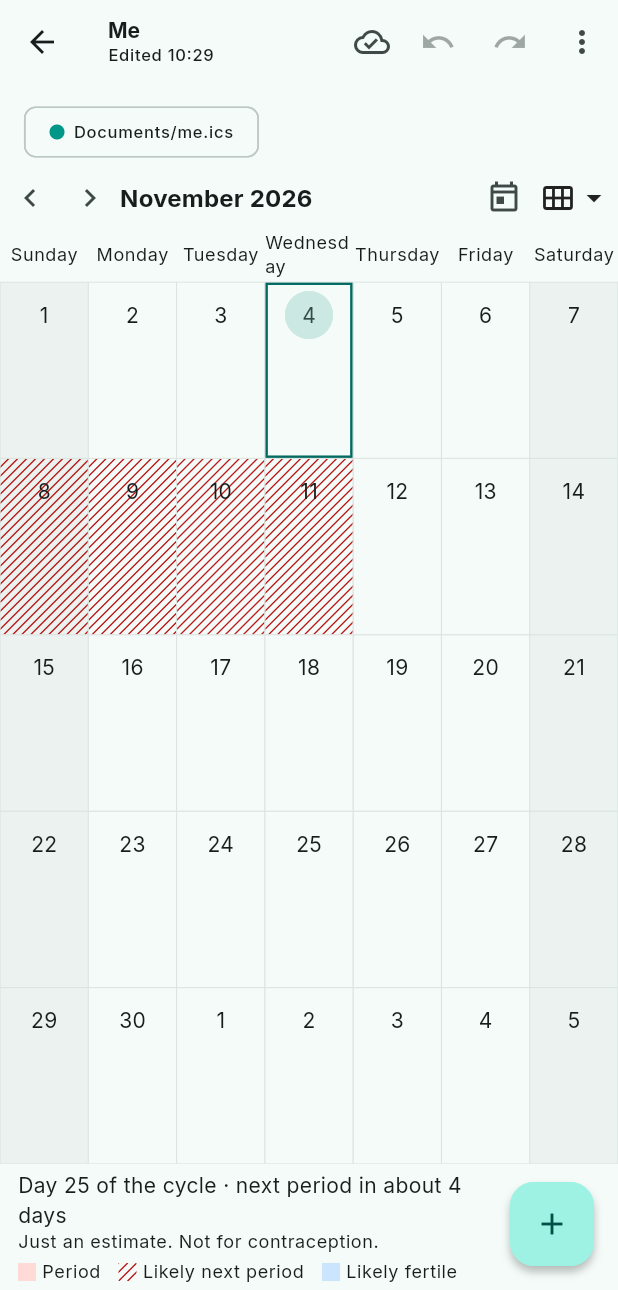
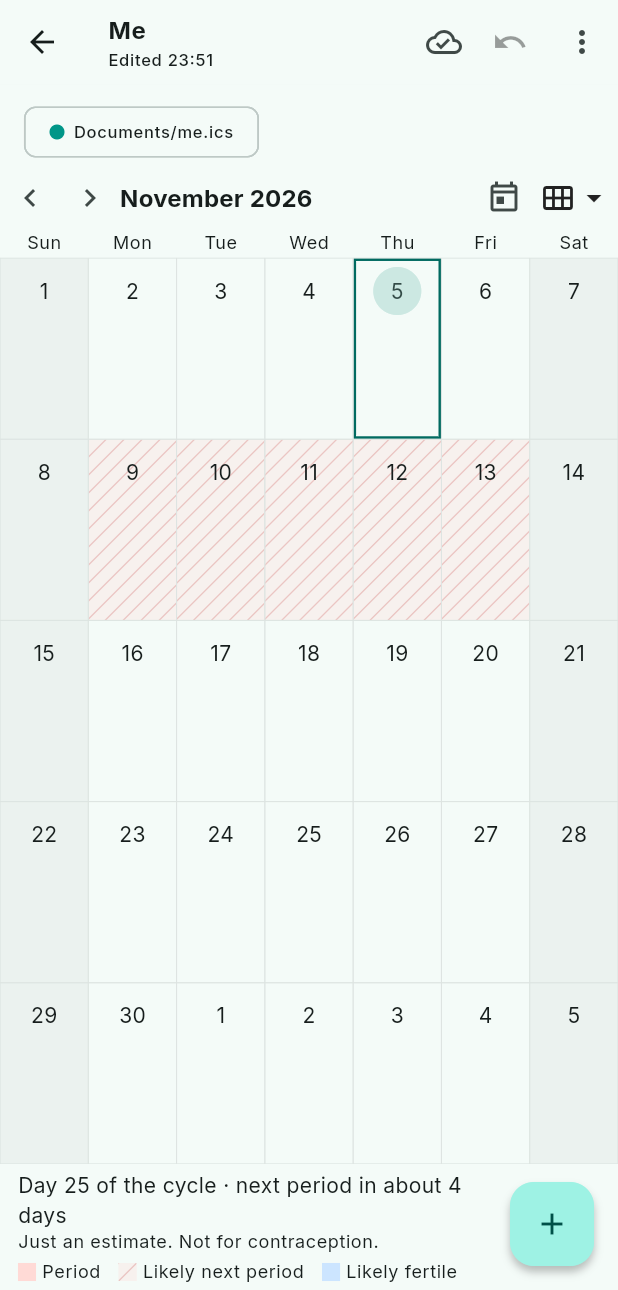
Release notes and version 0.14.0; features page and known limits for new calendars

diff --git a/types/calendar/calendar/lib/src/merge/calendar_merge.dart b/types/calendar/calendar/lib/src/merge/calendar_merge.dart
@@ -41,7 +41,7 @@ final class CalendarMerge implements TextMerge {
           .named(name)
           .text,
       lost: [
-        if (renamed && name != others.name) 'The calendar name',
+        if (renamed && name != others.name) 'Calendar name',
         for (final unit in others.units)
           if (winners[unit.key] case final winner? when unit.key is! ZoneKey)
             for (final side in [mains.unitOf(unit.key)!, unit])

diff --git a/types/calendar/calendar/test/merge_test.dart b/types/calendar/calendar/test/merge_test.dart
@@ -243,7 +243,7 @@ void main() {
     final theirs = Calendar.read(birthday)!.named('Theirs').text;
     final merged = _merge.merge(ours, theirs, base: birthday) as MergedText;
     expect(Calendar.read(merged.text)!.name, 'Ours');
-    expect(merged.lost, contains('The calendar name'));
+    expect(merged.lost, contains('Calendar name'));
   });
 }
 

diff --git a/types/calendar/calendar/lib/src/model/calendar.dart b/types/calendar/calendar/lib/src/model/calendar.dart
@@ -211,7 +211,8 @@ List<List<_Line>>? _blocks(List<_Line> lines) {
     final end = _begins(lines[start])
         ? _endOf(lines, start) + 1
         : _nextBegin(lines, start);
-    if (end == 0) return null;
+    // A component that doesn't end.
+    if (end <= start) return null;
     blocks.add(lines.sublist(start, end));
     start = end;
   }

diff --git a/docs/features.md b/docs/features.md
@@ -45,7 +45,8 @@ own, with a name and a color.
 ## Calendars
 
 Calendars are `.ics` files, the format other calendar apps use. **New
-file** offers a calendar or a health calendar, named first. A
+file** offers a calendar or a health calendar; it opens at once, and
+its name is typed right in its title, now or any time later. A
 calendar's card shows its next events. Its page shows a month, a week,
 a day or a schedule, the one you picked last. Tap a free time to add an
 event there, a day in the month for an all-day event, or drag over a few
@@ -56,8 +57,9 @@ have its own color; otherwise it shows in its calendar's color (the
 file's color, else its folder's). A health calendar shows in the same
 views: **+** lists its kinds of entry (medication, symptom, measure,
 note, period), each with its own form and color. Once a period is
-written, the month shades period days and fertile days, stripes the
-likely next period, and the line below tells the day of the cycle.
+written, the month shades period days and fertile days, shades the
+likely next period lighter with faint stripes, and the line below tells
+the day of the cycle.
 Today always has a blue outline. With a mouse, Shift and the wheel page
 to the next or previous month, week or day. Once your
 folders hold a calendar, the **Calendar** tab shows the events of all
@@ -71,7 +73,7 @@ kept.
 <img src="screenshots/calendar/calendar_month_desktop.png" width="600" alt="A calendar's page in the month view">
 <img src="screenshots/calendar/calendar_week_desktop.png" width="600" alt="The same calendar in the week view, events by hour">
 <img src="screenshots/calendar/calendar_schedule_touch.png" width="300" alt="The schedule view on a phone: events listed by date">
-<img src="screenshots/calendar/calendar_health_touch.png" width="300" alt="A health calendar on a phone: period days shaded, the likely next period striped, today outlined, the cycle line below">
+<img src="screenshots/calendar/calendar_health_touch.png" width="300" alt="A health calendar on a phone: period days shaded, the likely next period lighter with faint stripes, today outlined, the cycle line below">
 <img src="screenshots/calendar/calendar_tab_desktop.png" width="600" alt="The Calendar tab: two calendars as chips above one month">
 <img src="screenshots/calendar/calendar_tab_sheet_touch.png" width="300" alt="An event tapped in the Calendar tab: its details with Open calendar and Edit">
 

diff --git a/docs/known-limitations.md b/docs/known-limitations.md
@@ -94,9 +94,9 @@ Accepted behavior that is not planned to change, grouped by topic.
 
 ## Calendars
 
-- **A new calendar is saved with its first event.** Like a new document,
-  a new calendar gets its file only once you add something to it. Leave
-  it empty and it is gone.
+- **A new calendar is saved once it has a name or an event.** Like a new
+  document, a new calendar gets its file only once you add something to
+  it. Leave it with neither and it is gone.
 - **Alerts don't ring yet.** Truce keeps an event's alerts in the
   calendar, so other calendar apps ring them, but doesn't ring them
   itself.
